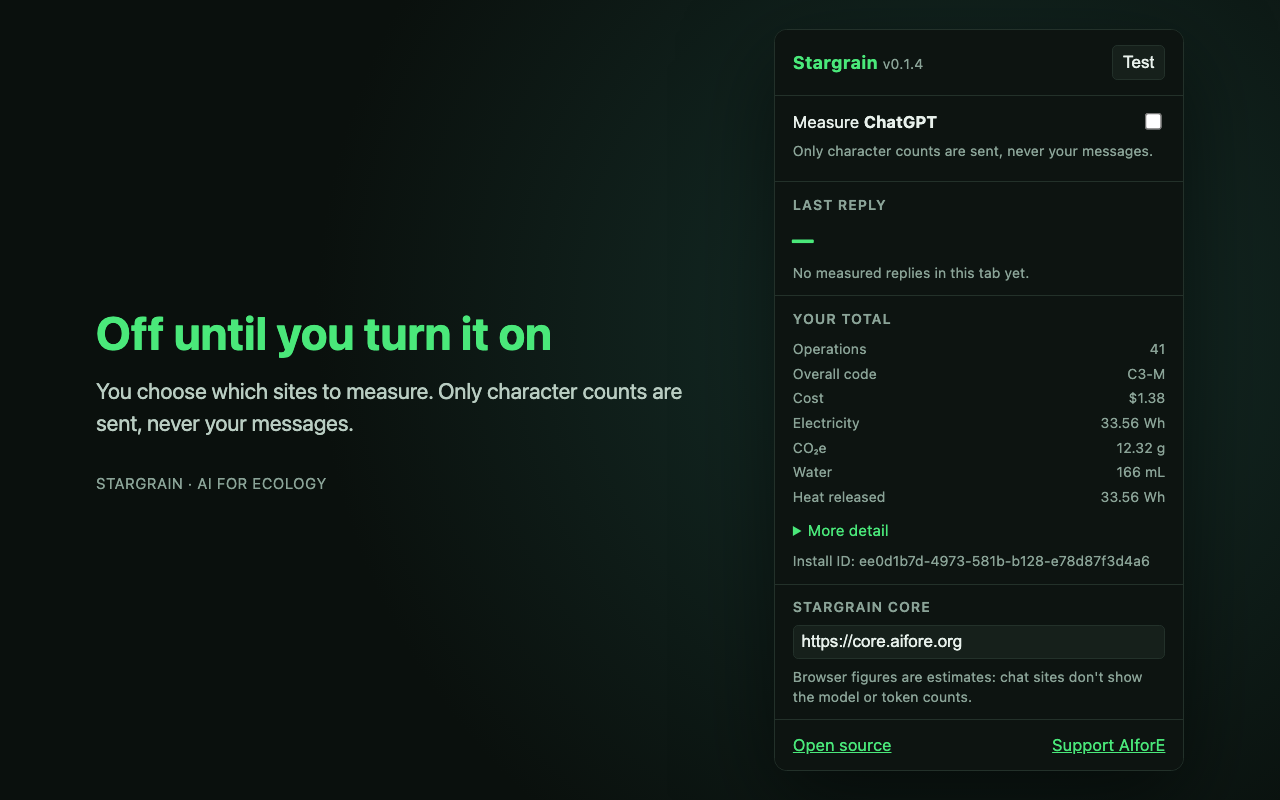
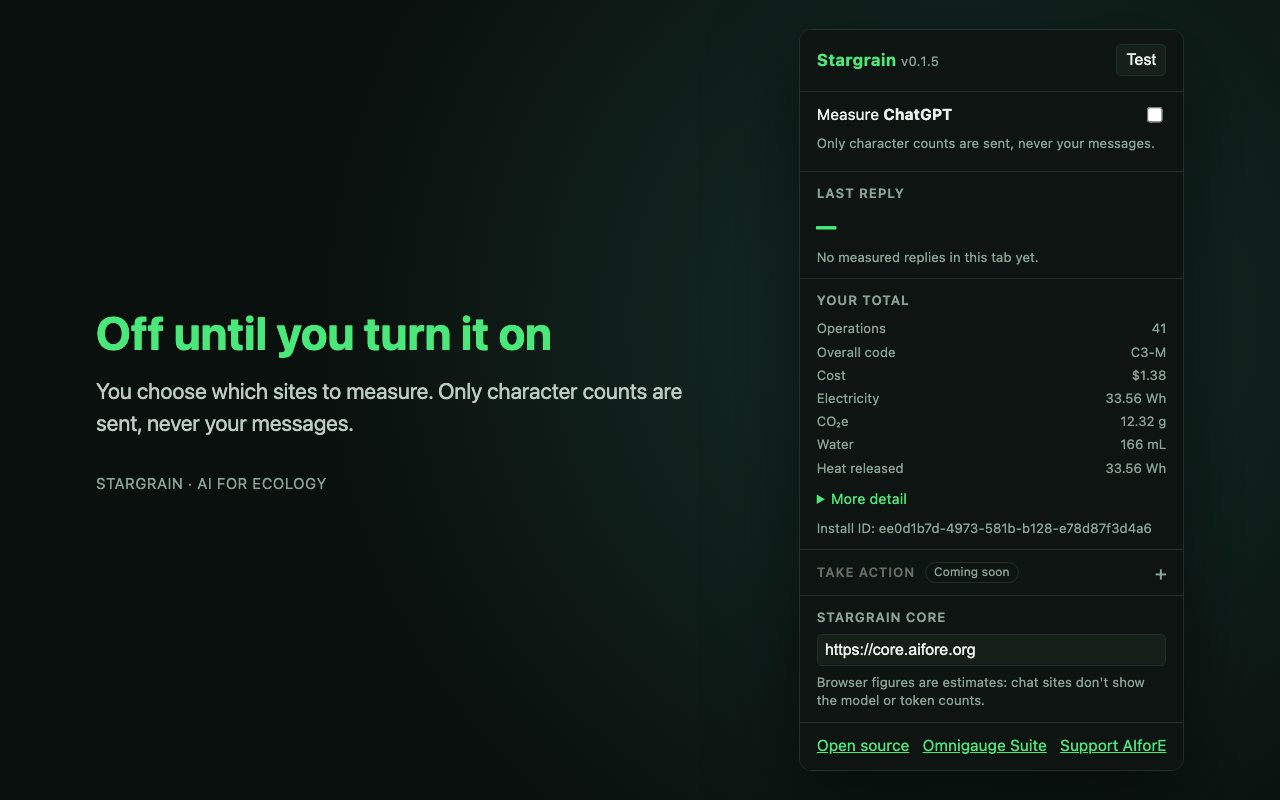
Browser extension 0.1.5: Take action (coming soon), Omnigauge Suite, stargrain-extension.zip
- New "Take action" section in the popup, grayed out, collapsed and marked
  "Coming soon": Remediate, Recycled and Renewable, each showing the CO2e,
  water or electricity it would offset. The only live link is "Join the
  marketplace" for providers. Opening it sends nothing.
- Stargrain now says it is part of the Omnigauge Suite: in the extension
  description, the store listing, and a popup footer link.
- The store package is now stargrain-extension.zip (build, release
  workflow, docs, .gitignore).
- Store screenshots regenerated; CHANGELOG entry.

Changed region(s): [[0.625, 0.0625, 0.9062, 0.9375], [0.875, 0.4375, 0.9062, 0.625], [0.625, 0.0625, 0.7188, 0.0938]]

diff --git a/subscriber-client/browser-extension/static/popup.html b/subscriber-client/browser-extension/static/popup.html
@@ -30,6 +30,18 @@
     .row.sub span:first-child { padding-left: 10px; }
     .row.forest { align-items: center; }
     .trees { display: flex; gap: 1px; color: var(--accent); }
+    /* Take action: grayed out and collapsed until the first partners are approved. */
+    details.take-action > summary { list-style: none; display: flex; align-items: center; gap: 8px; cursor: pointer; }
+    details.take-action > summary::-webkit-details-marker { display: none; }
+    details.take-action > summary h2 { margin: 0; color: #5f7268; }
+    details.take-action > summary::after { content: "+"; margin-left: auto; color: var(--muted); font-size: 16px; line-height: 1; }
+    details.take-action[open] > summary::after { content: "\2212"; }
+    .pill { font-size: 10px; color: var(--muted); border: 1px solid var(--line); border-radius: 999px; padding: 1px 7px; }
+    .ta-body { margin-top: 8px; }
+    .ta-item { display: flex; align-items: center; gap: 8px; padding: 4px 0; color: #5f7268; }
+    .ta-item svg { width: 14px; height: 14px; flex: none; }
+    .ta-item span:nth-child(2) { flex: 1; }
+    .ta-item span:last-child { font-size: 11px; }
     footer { padding: 10px 14px; display: flex; justify-content: space-between; align-items: center; }
     a { color: var(--accent); }
   </style>
@@ -57,6 +69,28 @@
   </section>
 
   <section>
+    <details class="take-action" id="take-action">
+      <summary><h2>Take action</h2><span class="pill">Coming soon</span></summary>
+      <div class="ta-body">
+        <div class="ta-item" title="Coming soon">
+          <svg viewBox="0 0 24 24" fill="none" stroke="currentColor" stroke-width="2" aria-hidden="true"><path d="M5 21c0-9 5-14 14-16-1 9-6 14-14 16zM5 21l7-7"/></svg>
+          <span>Remediate</span><span id="ta-co2e">your CO₂e</span>
+        </div>
+        <div class="ta-item" title="Coming soon">
+          <svg viewBox="0 0 24 24" fill="none" stroke="currentColor" stroke-width="2" aria-hidden="true"><path d="M12 3s6 7 6 11a6 6 0 0 1-12 0c0-4 6-11 6-11z"/></svg>
+          <span>Recycled</span><span id="ta-water">your water</span>
+        </div>
+        <div class="ta-item" title="Coming soon">
+          <svg viewBox="0 0 24 24" fill="none" stroke="currentColor" stroke-width="2" aria-hidden="true"><circle cx="12" cy="12" r="4"/><path d="M12 2v2M12 20v2M2 12h2M20 12h2M5 5l1.5 1.5M17.5 17.5 19 19M5 19l1.5-1.5M17.5 6.5 19 5"/></svg>
+          <span>Renewable</span><span id="ta-energy">your electricity</span>
+        </div>
+        <p class="note">Coming soon: verified partners for carbon removal, water recycling and renewable energy, matched to what you measured. AIforE won't sell these services or take payment.</p>
+        <p class="note">Are you a provider? <a href="https://aifore.org/partners-projects.html" target="_blank" rel="noopener">Join the marketplace</a></p>
+      </div>
+    </details>
+  </section>
+
+  <section>
     <h2>Stargrain Core</h2>
     <form id="api-form"><input type="url" id="api" required /></form>
     <p class="note">Browser figures are estimates: chat sites don't show the model or token counts.</p>
@@ -64,6 +98,7 @@
 
   <footer>
     <a href="https://github.com/AIforEcology/stardust" target="_blank" rel="noopener">Open source</a>
+    <a href="https://aifore.org/omnigauge.html" target="_blank" rel="noopener">Omnigauge Suite</a>
     <a href="https://aifore.org" target="_blank" rel="noopener">Support AIforE</a>
   </footer>
   <script src="popup.js"></script>

diff --git a/subscriber-client/browser-extension/src/popup.ts b/subscriber-client/browser-extension/src/popup.ts
@@ -85,6 +85,10 @@ async function renderSummary(apiBase: string): Promise<void> {
       }),
     ].join("");
     $("install-id").textContent = `Install ID: ${userId}`;
+    // Take action (coming soon): show what each panel would offset. Opening it sends nothing.
+    $("ta-co2e").textContent = `${fmt(s.co2e_g, "g")} CO₂e`;
+    $("ta-water").textContent = `${fmt(s.water_ml, "mL")} water`;
+    $("ta-energy").textContent = fmt(s.energy_wh, "Wh");
   } catch (e) {
     $("summary").textContent = e instanceof KeyRevokedError ? e.message : `Can't reach Stargrain Core at ${apiBase}.`;
   }

diff --git a/subscriber-client/browser-extension/README.md b/subscriber-client/browser-extension/README.md
@@ -56,7 +56,7 @@ Live checks on ChatGPT and Gemini (2026-09-24), via read-only page inspection pl
 
 ## Hosted Core and store builds
 
-`npm run build:store` builds with the hosted Core (`https://core.aifore.org`, or set `STARDUST_API_BASE`) as the default and writes `stardust-extension.zip`, the package for both the Chrome Web Store and Microsoft Edge Add-ons. The hosted Core's address is in the manifest's host permissions, so users aren't asked for it.
+`npm run build:store` builds with the hosted Core (`https://core.aifore.org`, or set `STARDUST_API_BASE`) as the default and writes `stargrain-extension.zip`, the package for both the Chrome Web Store and Microsoft Edge Add-ons. The hosted Core's address is in the manifest's host permissions, so users aren't asked for it.
 
 On first use the extension registers with the Core (`POST /v1/installs`) and gets its own key and user ID. The key goes with every event and summary request; if the Core no longer knows it, the extension registers again. Keys are kept per Core address, so switching to a self-hosted Core never sends it the hosted key. A Core without self-registration (a local one) answers 404, and the extension uses its local pseudonymous ID with no key, as before.
 
@@ -70,5 +70,5 @@ Store listing text, permission justifications and the privacy policy draft are i
 
 1. Bump the version with `npm version patch --no-git-tag-version` (or `minor`), which also copies it into `static/manifest.json` (`scripts/sync-version.mjs`; `build:store` runs it too, and CI checks the two match). Run `npm run screenshots` so the store images show the new version, and merge to main.
 2. Tag and push: `git tag extension-v0.1.1 && git push origin extension-v0.1.1`.
-3. The **Release extension** workflow checks the tag matches `package.json`, runs the tests, builds `stardust-extension.zip` and attaches it to a GitHub Release.
+3. The **Release extension** workflow checks the tag matches `package.json`, runs the tests, builds `stargrain-extension.zip` and attaches it to a GitHub Release.
 4. Upload that zip in the Chrome Web Store and Edge Add-ons dashboards. Once each store approves it, users update automatically.

diff --git a/CHANGELOG.md b/CHANGELOG.md
@@ -10,6 +10,9 @@ Versions follow [Semantic Versioning](https://semver.org/). The format follows [
 
 ## Unreleased
 
+### Changed
+- **Browser extension 0.1.5:** Stargrain now says it is part of the **Omnigauge Suite**: in the extension description, the store listing, and a new "Omnigauge Suite" link in the popup footer (aifore.org/omnigauge.html). The popup has a new **Take action** section, grayed out, collapsed and marked "Coming soon": Remediate, Recycled and Renewable, each showing the CO₂e, water or electricity it would offset, with a "Join the marketplace" link for providers as the only live link. Opening it sends nothing. The store package is renamed `stargrain-extension.zip`.
+
 ### Added
 - **SDKs ready for outside developers (MVP).** Both SDKs are renamed to names AIforE controls (the old names belong to others) and work against hosted Core with an API key.
   - **aifore-stardust 0.2.0** (PyPI, was `stardust-sdk` 0.1.0). The import name is still `stardust_sdk`, so code doesn't change. **Needs Python 3.10+** (0.1.0 allowed 3.9, which is past end of life); Core, providers-service and intel still support 3.9. `Stardust(api_key=...)` sends `Authorization: Bearer <key>`, falling back to `STARDUST_API_KEY`. `api_base` now defaults to `STARDUST_API_BASE`, else `https://core.aifore.org` (`None` still means OTel only). A 401 or 403 logs one warning and drops events without retrying; network errors and 5xx retry as before. The key never appears in logs, `repr` or errors. New helpers, separate from metering, that raise `StardustError`: `summary()`, `summary_daily()`, `request_quote()`, `submit_order()`, `order_status()`, with typed results (`Summary`, `DailySummary`, `Quote`, `Order`, `Certificate`). Now ships `py.typed`.

diff --git a/docs/architecture/browser-extension.md b/docs/architecture/browser-extension.md
@@ -427,13 +427,13 @@ flowchart LR
   subgraph CI["GitHub Actions"]
     PR["Pull request"] --> CIJ["ci.yml: typecheck, test, build<br/>security.yml: deps, secrets, code"]
     TAG["git tag extension-vX.Y.Z"] --> REL["release-extension.yml:<br/>tag = package.json version,<br/>npm ci, typecheck, test, build:store"]
-    REL --> ZIP["GitHub Release with<br/>stardust-extension.zip"]
+    REL --> ZIP["GitHub Release with<br/>stargrain-extension.zip"]
   end
   ZIP --> CWS["Chrome Web Store<br/>(manual upload)"]
   ZIP --> EDGE["Edge Add-ons<br/>(manual upload)"]
 ```
 
-- `npm run build:store` sets the default Core to `https://core.aifore.org` (or `STARDUST_API_BASE`), adds its host permission and writes `stardust-extension.zip`.
+- `npm run build:store` sets the default Core to `https://core.aifore.org` (or `STARDUST_API_BASE`), adds its host permission and writes `stargrain-extension.zip`.
 - The version lives only in `package.json`; `build.mjs` copies it into the manifest and the popup shows it.
 - **End-to-end check before a release:** load `dist/` in Playwright's Chromium with `--load-extension`, route the chat host to a stand-in page that replays a measured reply sequence, and confirm the service worker stores an enriched event from Core. Revoke the test install's key afterwards.
 - Store uploads are manual for now. The Chrome Web Store and Edge Add-ons publish APIs can be wired into the release workflow later with repository secrets.

diff --git a/subscriber-client/browser-extension/store/LISTING.md b/subscriber-client/browser-extension/store/LISTING.md
@@ -1,6 +1,6 @@
 # Store listing: Chrome Web Store and Microsoft Edge Add-ons
 
-Same package (`npm run build:store` → `stardust-extension.zip`) and same text for both stores.
+Same package (`npm run build:store` → `stargrain-extension.zip`) and same text for both stores.
 
 **Name:** Stargrain: AI Cost & Carbon Meter
 
@@ -30,7 +30,7 @@ Private by design:
 
 Honest about accuracy: chat sites don't show token counts, so browser figures are estimates and are labeled as such. Methodology and factors are public and versioned.
 
-Stargrain is free and open source (Apache-2.0), built by AI for Ecology (AIforE.org), a 501(c)(3) nonprofit working on standard, transparent measurement of AI's environmental footprint. Code: github.com/AIforEcology/stardust
+Stargrain is part of the Omnigauge Suite, AIforE's free tools for measuring AI's footprint (aifore.org/omnigauge.html). It is free and open source (Apache-2.0), built by AI for Ecology (AIforE.org), a 501(c)(3) nonprofit working on standard, transparent measurement of AI's environmental footprint. Code: github.com/AIforEcology/stardust
 
 **Links**
 - Website: https://aifore.org
